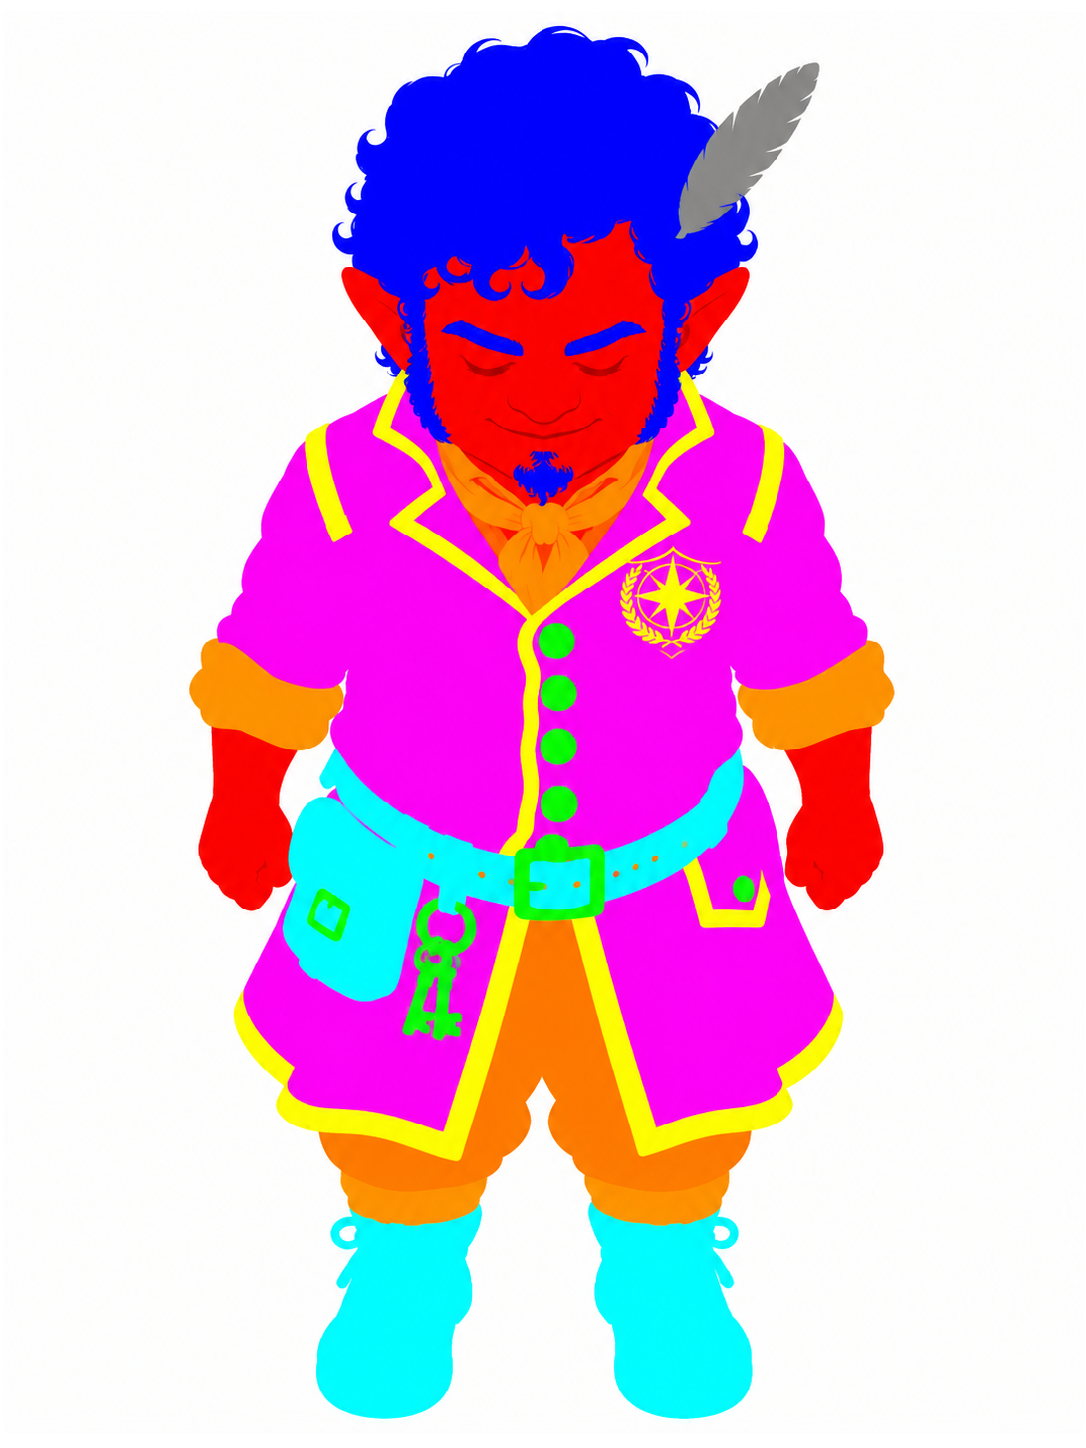
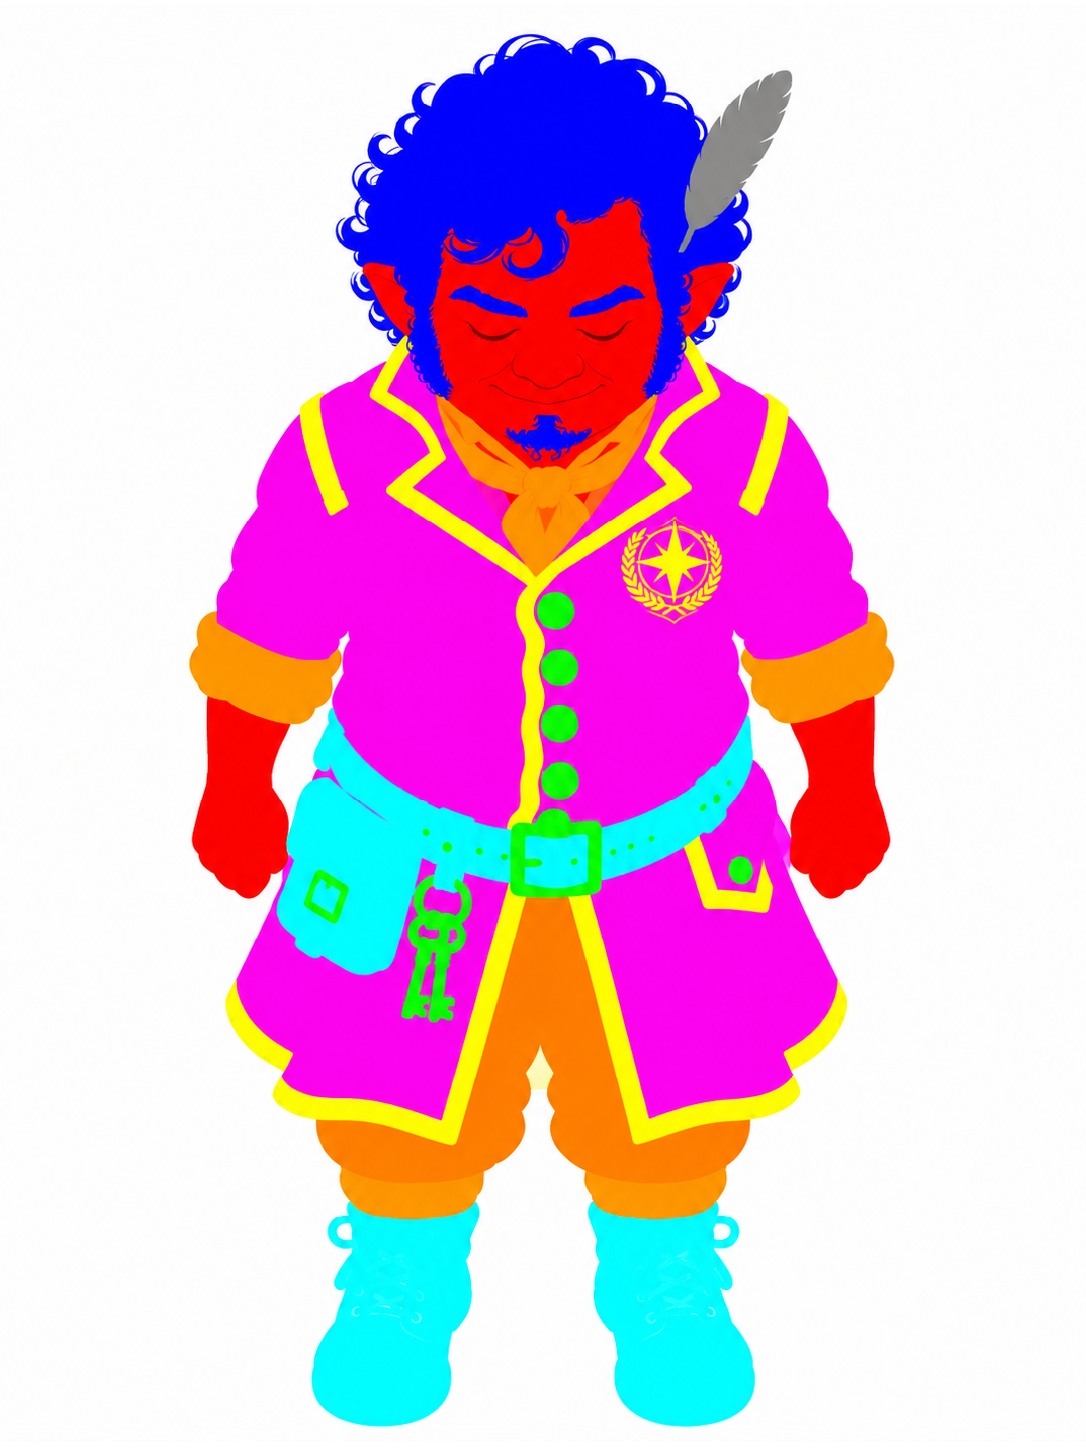
Guilde : calque de Bert refait
Claude-Session: https://claude.ai/code/session_01F13QTHtRPRAg87rG7j2jCn

diff --git a/kit-personnages/LISEZMOI.md b/kit-personnages/LISEZMOI.md
@@ -233,7 +233,7 @@ Aucun corps à redemander à GPT : toutes les tenues, poses et marches du nain s
 - **Queues validées par Yannick (les 11)**, y compris la n° 5 qui traîne juste derrière les bottes. **Queues ornées (2, 4, 6, 8) : réservées aux nobles, mages et gens aisés ; fermier, mendiant et petites gens n'ont que les queues simples** (1, 3, 5, 7, 9, 10, 11). Les vides enfermés entre une chaînette et la queue sont transparents (trous de blanc ou de gris très pâle retirés dans `build`) ; la chaînette qui borde un vide passe en bijou. **Gemmes = matière 5** (demande de Yannick : les petits bijoux sont en métal et en gemmes, jamais couleur peau) : pendeloques en goutte et cabochons des bracelets, teintés à part (`queues.tint(..., gem=)`). Aperçu des queues seules : `planches/tieffelin_queues_seules.png`.
 
 ## Employés de la Guilde (sur mesure)
-- **Repos validé par Yannick** : `guilde/<nom>/<nom>_relaxed.png` + `_relaxed_calque.png` pour Pax, Oswin, Tamsin, Corisande, Hrolf, Durgan, Séraphine, Elenwë, Bert et Ji-woo. Personnages entiers (tête comprise), dessinés par GPT d'après la morphologie du kit (gauche) et le portrait du Manuel (droite). Calques recalés en code sur le gris (échelles et décalage séparés, recouvrement 97 à 99 %). **Bert : calque provisoire (94,5 %), à refaire.** Défenses de Hrolf passées en violet. **Corisande, Séraphine et Hrolf gardent des proportions réalistes (tête plus petite que le kit) : choix de Yannick. Selon lui, ce sont les proportions justes pour des elfes et un demi-orc ; on ne refait pas le kit, et cette différence distingue les employés des personnages de fond.**
+- **Repos validé par Yannick** : `guilde/<nom>/<nom>_relaxed.png` + `_relaxed_calque.png` pour Pax, Oswin, Tamsin, Corisande, Hrolf, Durgan, Séraphine, Elenwë, Bert et Ji-woo. Personnages entiers (tête comprise), dessinés par GPT d'après la morphologie du kit (gauche) et le portrait du Manuel (droite). Calques recalés en code sur le gris (échelles et décalage séparés, recouvrement 97 à 99 %). Bert : calque refait (96,8 %). Défenses de Hrolf passées en violet. **Corisande, Séraphine et Hrolf gardent des proportions réalistes (tête plus petite que le kit) : choix de Yannick. Selon lui, ce sont les proportions justes pour des elfes et un demi-orc ; on ne refait pas le kit, et cette différence distingue les employés des personnages de fond.**
 - Calque commun : ROUGE peau, BLEU poils, MAGENTA veste d'uniforme, JAUNE liserés et blason, VERT métal, CYAN cuir, ORANGE autres tissus, VIOLET (#8000FF) cornes et défenses, GRIS (#808080) objets portés.
 - Poses à faire pour chacun : pas 1, pas 3, bras tendu, tenir un livre, écrire dans le livre (sans calque : `std.prep_from` depuis le repos).
 - Aperçu : `planches/guilde_repos.png`.
